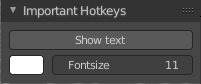
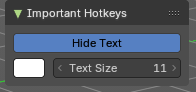
Docs 2.0: recapture the Important Hotkeys panel (Hide Text pressed, Text Size)
Claude-Session: https://claude.ai/code/session_01TZ3cKPLjkkQu7A5AvvLPrB

diff --git a/docs2/content/editors/3d-viewport/all-modes/sidebar.md b/docs2/content/editors/3d-viewport/all-modes/sidebar.md
@@ -790,8 +790,6 @@ Turning off Lock Rotation reveals the quick navigation buttons Switch to Camera 
 
 This panel comes from the **Important Hotkeys** add-on. It shows the most important hotkeys right in the viewport, as a little cheat sheet while you learn. You can turn the add-on off in the Preferences.
 
-<!-- TODO screenshot: sidebar View tab > Important Hotkeys panel, Hide Text pressed -->
-
 ### Show Text / Hide Text
 
 Shows the hotkeys in the viewport. While they show, the button reads **Hide Text** and looks pressed in, so you can see at a glance that the overlay is on. Click it again to hide them.
